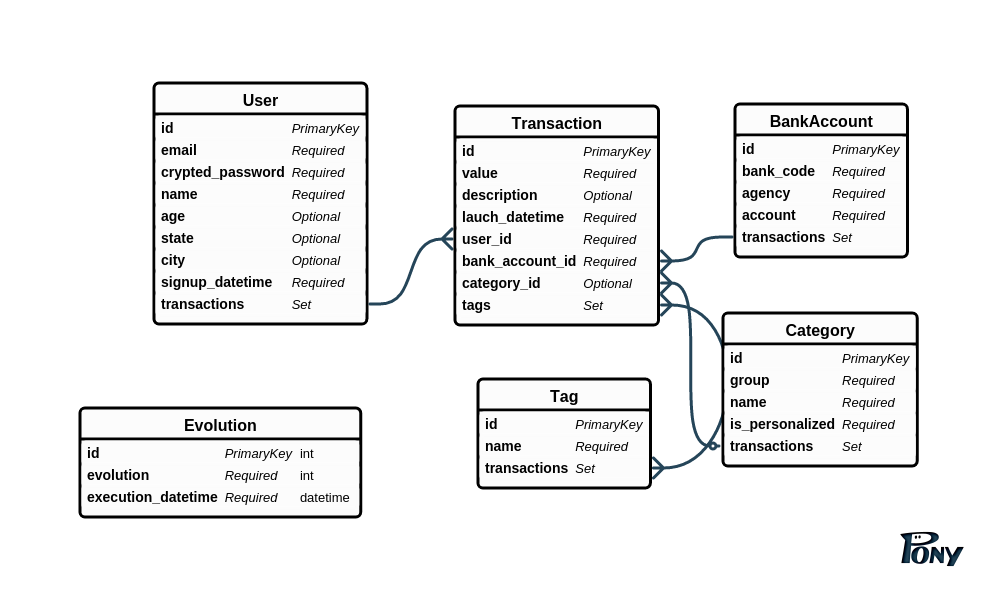
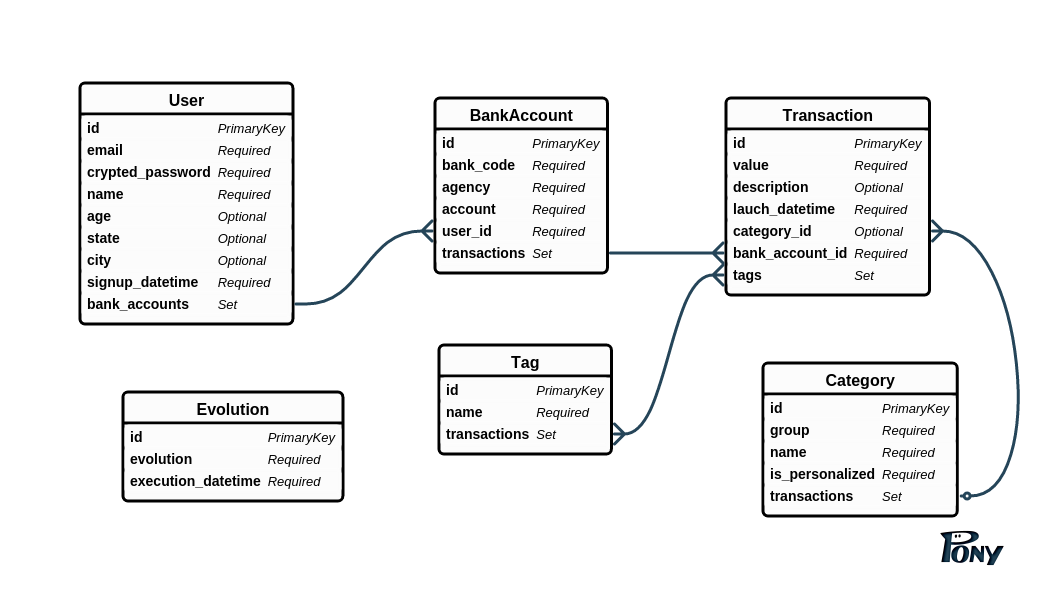
Change of modeling after have visited GuiaBolso's HQ.

Changed region(s): [[0.0622, 0.1208, 0.9639, 0.9664], [0.0622, 0.6342, 0.3731, 0.8758], [0.9639, 0.4832, 0.995, 0.7852]]

diff --git a/docs/captainslog.md b/docs/captainslog.md
@@ -12,8 +12,16 @@ This is a ongoing report of the repository's progress. Most of the project defin
 
 The first relevant part of the system's design is starting. The main points for a first release are:
 
-- Use of PostgreSQL as the database, to simulate (see [ER model](databases/er-model-1.png)) the current relational database used by GuiaBolso (it's Aurora, not Postgres, but both are relational and I am used to deal with the second).
-- In order to secure a history of the evolution, files named *(up|down)/number.sql* (such as *up/1.sql* and *down/1.sql*) are used. The folder *up* represents an upgrade, while the folder *down*, a downgrade (similar to evolutions in PlayFramework). The system MUST provide a tracking of the base's evolution.
-- Divide the tables in the ones for the application (with the prefix *app_*) and the ones for the system (e.g., *conf_evolutions*).
-- Create a simple and automated CRUD to simulate users inserting (manually) new transactions and updating existing ones (e.g., categorize).
-- Extract simple stats from the base (categorize users by age, region, types of spending).
+1. Use of PostgreSQL as the database, to simulate (see [ER model](databases/er-model-1.png)) the current relational database used by GuiaBolso (it's Aurora, not Postgres, but both are relational and I am used to deal with the second).
+2. In order to secure a history of the evolution, files named *(up|down)/number.sql* (such as *up/1.sql* and *down/1.sql*) are used. The folder *up* represents an upgrade, while the folder *down*, a downgrade (similar to evolutions in PlayFramework). The system MUST provide a tracking of the base's evolution.
+3. Divide the tables in the ones for the application (with the prefix *app_*) and the ones for the system (e.g., *conf_evolutions*).
+4. Create a simple and automated CRUD to simulate users inserting (manually) new transactions and updating existing ones (e.g., categorize).
+5. Extract simple stats from the base (categorize users by age, region, types of spending).
+
+
+### 2015-12-07
+
+1. Changed tables *app_bank_accounts* and *app_transactions* in hierarchy. Now a BankAccount references a User, and a Transaction references this BankAccount.
+2. After the visit to GuiaBolso's HQ, create a base of knowledge (mocked, using some webcrawler or other means) and categorize the transacions (semi) automatically.
+3. Should (or *must*) use the Big Data tools provided by Amazon.
+4. Should read about DynamoDB.

diff --git a/README.md b/README.md
@@ -29,6 +29,7 @@ Try to use TDD for everything. Use the [Captain's Log](docs/captainslog.md)
 
 ## Sources of knowledge
 
+- check the big data tools provided by Amazon
 - https://www.youtube.com/playlist?list=PL77JVjKTJT2jyVllJeO3TZV9D5cfSvSjR
 - http://nbviewer.ipython.org/url/norvig.com/ipython/Probability.ipynb
 - https://www.quora.com/How-can-I-become-a-data-scientist
